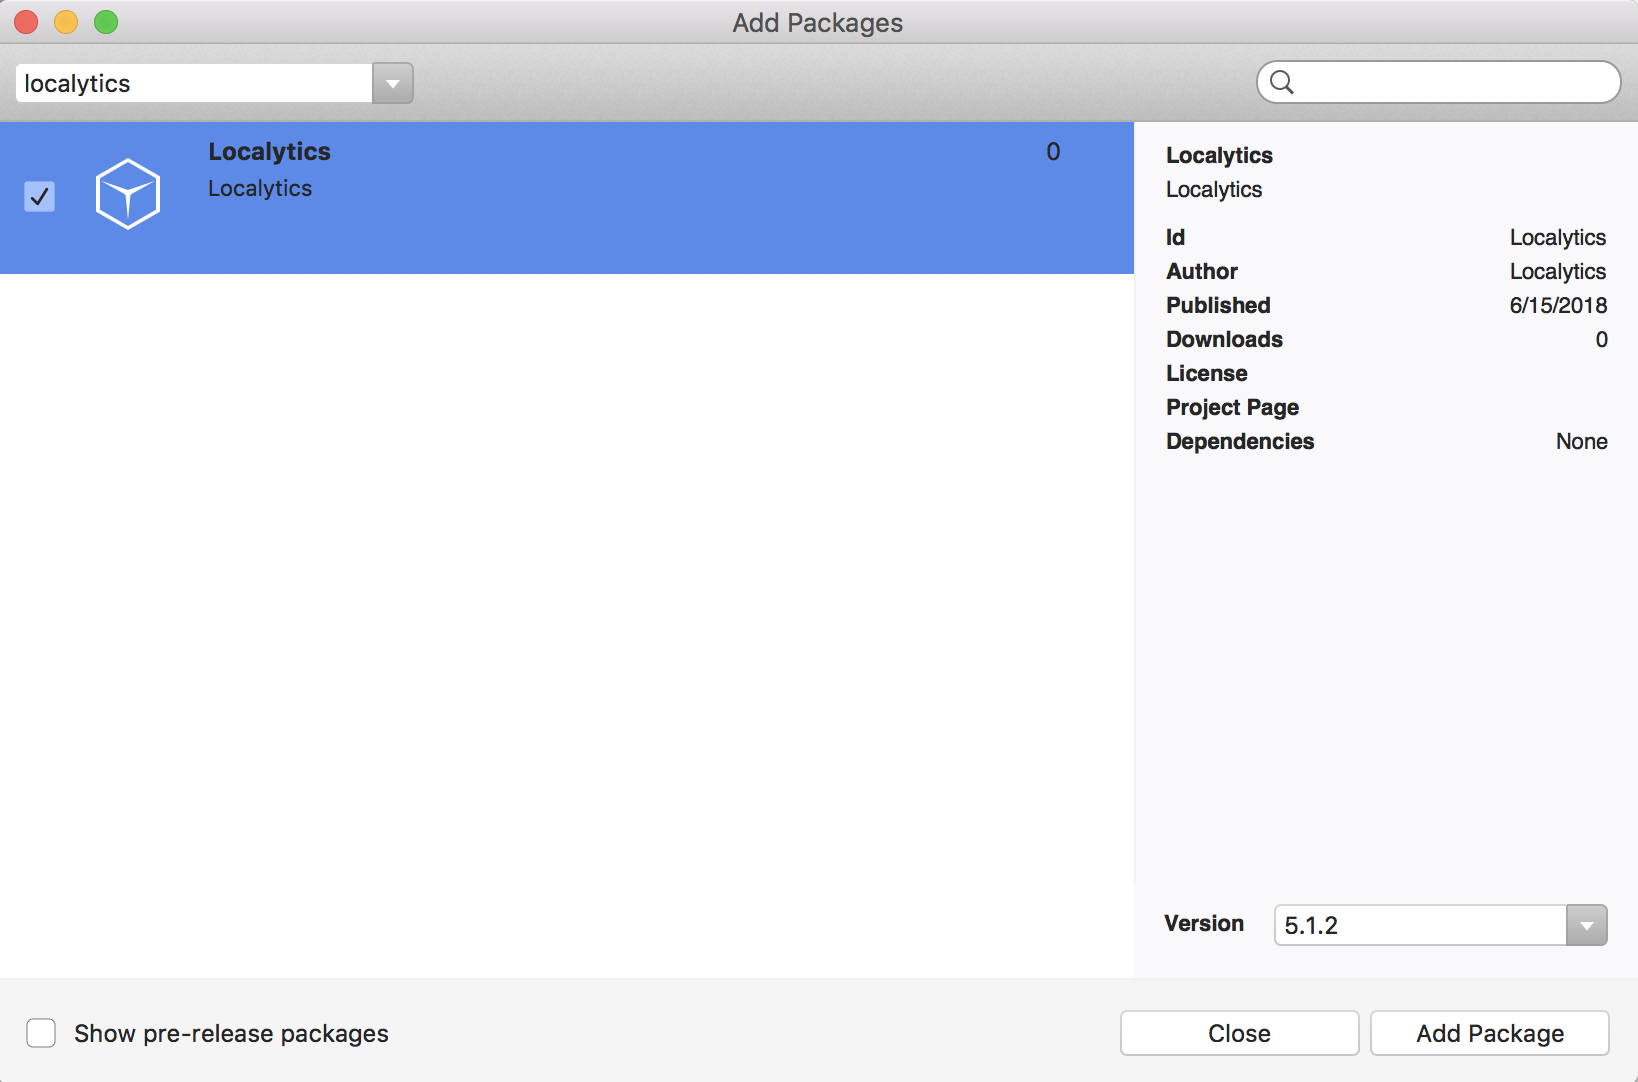
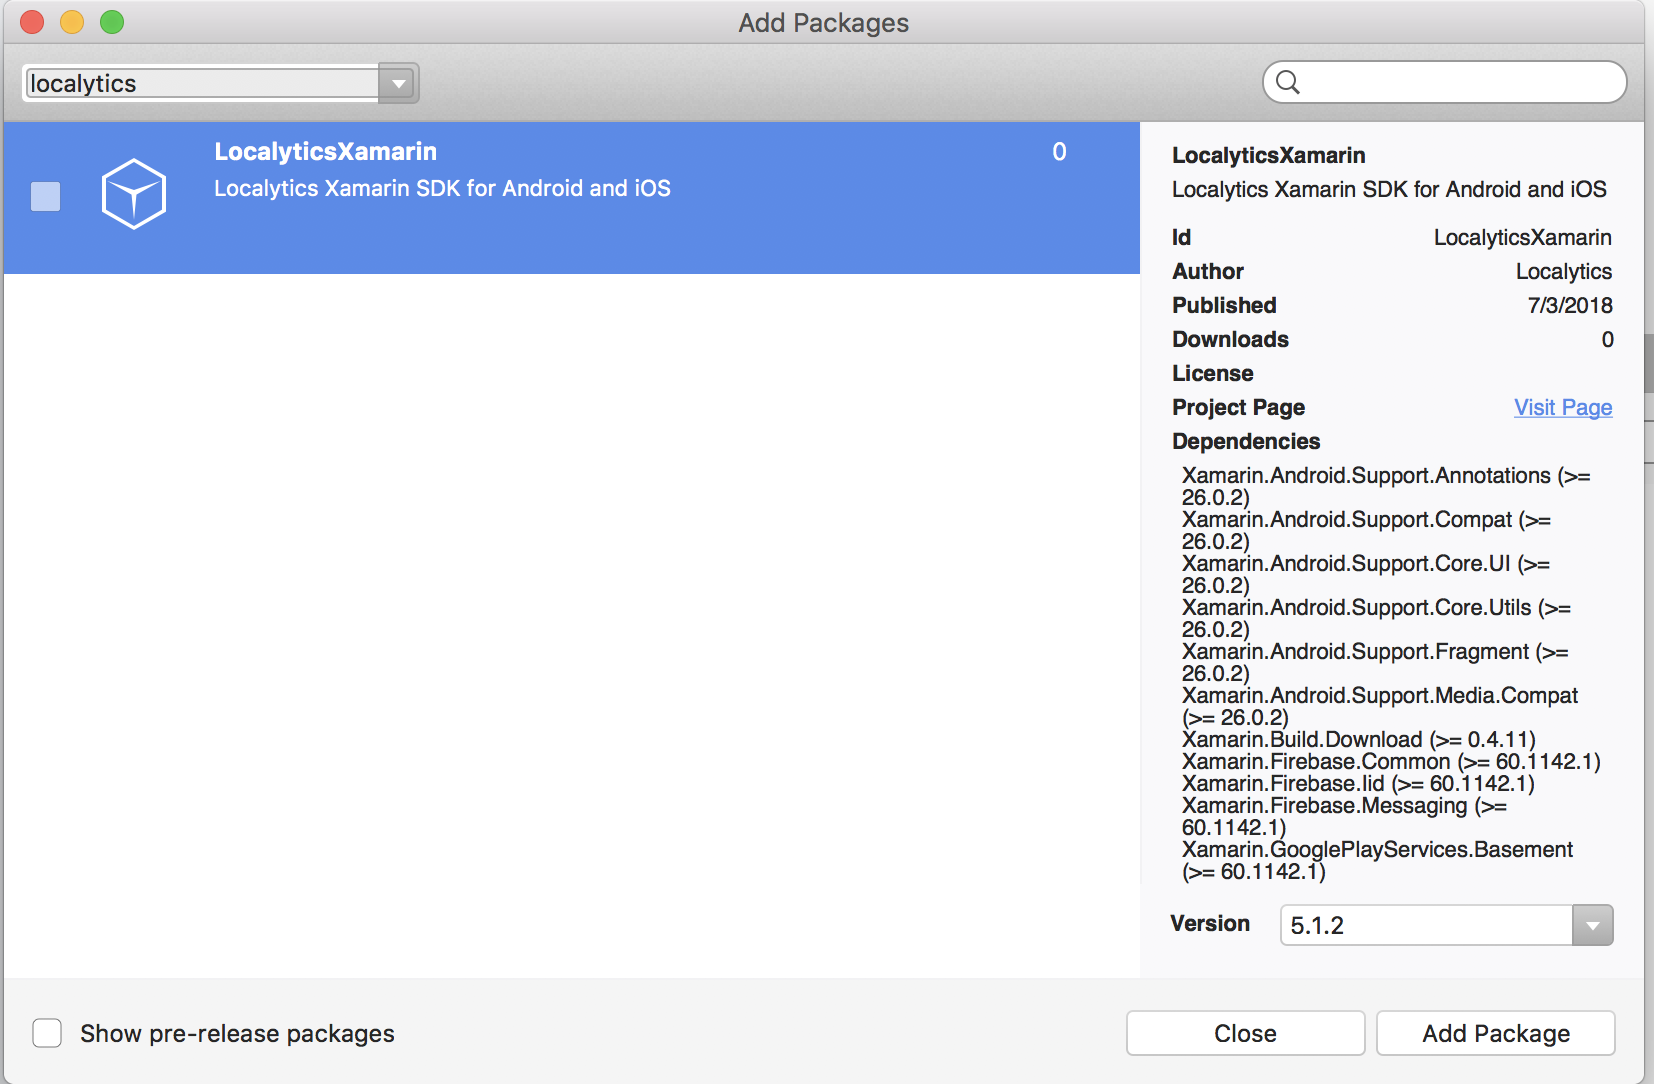
Localytics Identifier change for Release 5.1.2

diff --git a/LocalyticsXamarin/LocalyticsXamarin.Common/Properties/AssemblyInfo.cs b/LocalyticsXamarin/LocalyticsXamarin.Common/Properties/AssemblyInfo.cs
@@ -17,7 +17,7 @@ using System.Runtime.CompilerServices;
 // The form "{Major}.{Minor}.*" will automatically update the build and revision,
 // and "{Major}.{Minor}.{Build}.*" will update just the revision.
 
-[assembly: AssemblyVersion("4.2.0.*")]
+[assembly: AssemblyVersion("45.1.2.*")]
 
 // The following attributes are used to specify the signing key for the assembly, 
 // if desired. See the Mono documentation for more information about signing.

diff --git a/LocalyticsXamarin/LocalyticsXamarin.Android/Properties/AssemblyInfo.cs b/LocalyticsXamarin/LocalyticsXamarin.Android/Properties/AssemblyInfo.cs
@@ -17,7 +17,7 @@ using Android.App;
 // The form "{Major}.{Minor}.*" will automatically update the build and revision,
 // and "{Major}.{Minor}.{Build}.*" will update just the revision.
 
-[assembly: AssemblyVersion ("4.2.0.*")]
+[assembly: AssemblyVersion ("5.1.2.*")]
 
 // The following attributes are used to specify the signing key for the assembly,
 // if desired. See the Mono documentation for more information about signing.

diff --git a/LocalyticsXamarin/LocalyticsXamarin.iOS/Properties/AssemblyInfo.cs b/LocalyticsXamarin/LocalyticsXamarin.iOS/Properties/AssemblyInfo.cs
@@ -25,7 +25,7 @@ using Foundation;
 // The form "{Major}.{Minor}.*" will automatically update the build and revision,
 // and "{Major}.{Minor}.{Build}.*" will update just the revision.
 
-[assembly: AssemblyVersion ("4.2.0.*")]
+[assembly: AssemblyVersion ("5.1.2.*")]
 
 // The following attributes are used to specify the signing key for the assembly,
 // if desired. See the Mono documentation for more information about signing.

diff --git a/LocalyticsXamarin/Android/MainActivity.cs b/LocalyticsXamarin/Android/MainActivity.cs
@@ -30,7 +30,7 @@ namespace LocalyticsSample.Android
                 StartService(intent);
             }
 
-			Localytics.SetOption("ll_gcm_sender_id", "995606817677");
+			Localytics.SetOption("ll_gcm_sender_id", "GCMID");
             //Localytics.RegisterPush();
 
             global::Xamarin.Forms.Forms.Init(this, bundle);

diff --git a/GettingStarted.md b/GettingStarted.md
@@ -13,11 +13,11 @@ The steps to integrate Localytics with this component mirrors the native Localyt
 ### Install the SDK
 1. Download the latest version of the Nuget package from [here](https://downloads.localytics.com/SDKs/Xamarin/Localytics-Xamarin-Latest.zip).
 2. Add a Nuget Package source in Visual Studio Preferences called localytics that points to the folder with the downloaded package.
-3. In Projects where you want to use Localytic SDK 
+3. In Projects that need to be integrated with Localytics Xamarin SDK
 	* Expand Packages folder
 	* Add a Package ![Add Package Menu](/images/AddPackage.png)
 	* Select localytics as the package sources ![Add Package Dialog](/images/AddPackageDialog.png)
-	* Pick the latest version of localytics
+	* Pick the latest version of LocalyticsXamarin nuget package
 	* Repeat the step for each platform (Android and iOS) ![Solution Window](/images/AddPackageDialog.png)
 	
 ## Package Names
